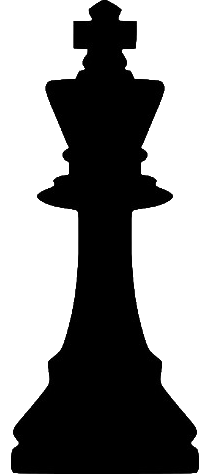
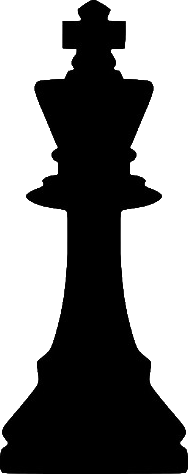
layout

diff --git a/chess.css b/chess.css
@@ -1,15 +1,21 @@
 body {
-    text-align: center;
     font-family: Georgia, serif;
     font-style: normal;
-    margin: auto;
+    margin-left: 3%;
+    margin-right: 3%;
+}
+
+header {
+    text-align: center;
 }
 
 #title {
+    margin-top: -10px;
     cursor: default;
     color: black;
-    font-size: 3.5em;
+    font-size: 3em;
     font-weight: bold;
+    line-height: 1.25em;
     text-decoration: none;
     display: block;
 }
@@ -21,7 +27,7 @@ body {
 
 #dropbtn {
     cursor: pointer;
-    font-size: 2em;
+    font-size: 1.75em;
     color: #BBD58E;
     background-color: #344E41;
     border: 3px solid #BBD58E;
@@ -37,14 +43,14 @@ body {
 
 .nav a {
     cursor: pointer;
-    font-size: 2em;
+    font-size: 1.75em;
     color: #BBD58E;
     line-height: 1.5em;
     background-color: #344E41;
     border: 3px solid #BBD58E;
-    margin-left: 1em;
+    margin-left: 1.25em;
     margin-top: -2.5px;
-    width: 5em;
+    width: 4.25em;
     height: 1.5em;
     text-decoration: none;
     display: block;
@@ -60,37 +66,29 @@ body {
 }
 
 #box {
-    display: flex;
-    justify-content: space-evenly;
     flex-direction: column;
 }
 
 img {
-    width: 15%;
-    height: 30%;
+    width: 10%;
+    height: 25%;
 }
 
 .blurb {
-    font-size: 2.5em;
+    font-size: 1.75em;
+    margin-top: 1px;
 }
 
-@media only screen and (max-width: 1000px) {
+@media only screen and (min-width: 1275px) {
     body {
-        margin-left: 5vw;
-        margin-right: 5vw;
+        width: 1200px;
+        margin-left: auto;
+        margin-right: auto;
     }
-
-    /*#title {
-        font-size: 5em;
-    }
-
-    .blurb {
-        font-size: 3em;
-    }*/
 }
 
-@media only screen and (min-width: 1000px) {
-    body {
-        width: 900px;
+@media only screen and (max-width: 750px) {
+    img {
+        width: 60px;
     }
 }

diff --git a/queen.html b/queen.html
@@ -32,7 +32,7 @@
         <div id="info">
             <img src="res/queen.png" alt="queen">
             <div id="box">
-                <p class="blurb">The Queen can move vertically, horizontally, or diagonally.</p>
+                <p class="blurb">The Queen is the most powerful piece on the board. It can move vertically, horizontally, or diagonally any number of squares.</p>
             </div>
         </div>
     </body>

diff --git a/pawn.html b/pawn.html
@@ -32,7 +32,7 @@
         <div id="info">
             <img src="res/pawn.png" alt="pawn">
             <div id="box">
-                <p class="blurb"></p>
+                <p class="blurb">Pawns may be small, but can become stronger pieces. They move by stepping 1 square forward.</p>
             </div>
         </div>
     </body>
